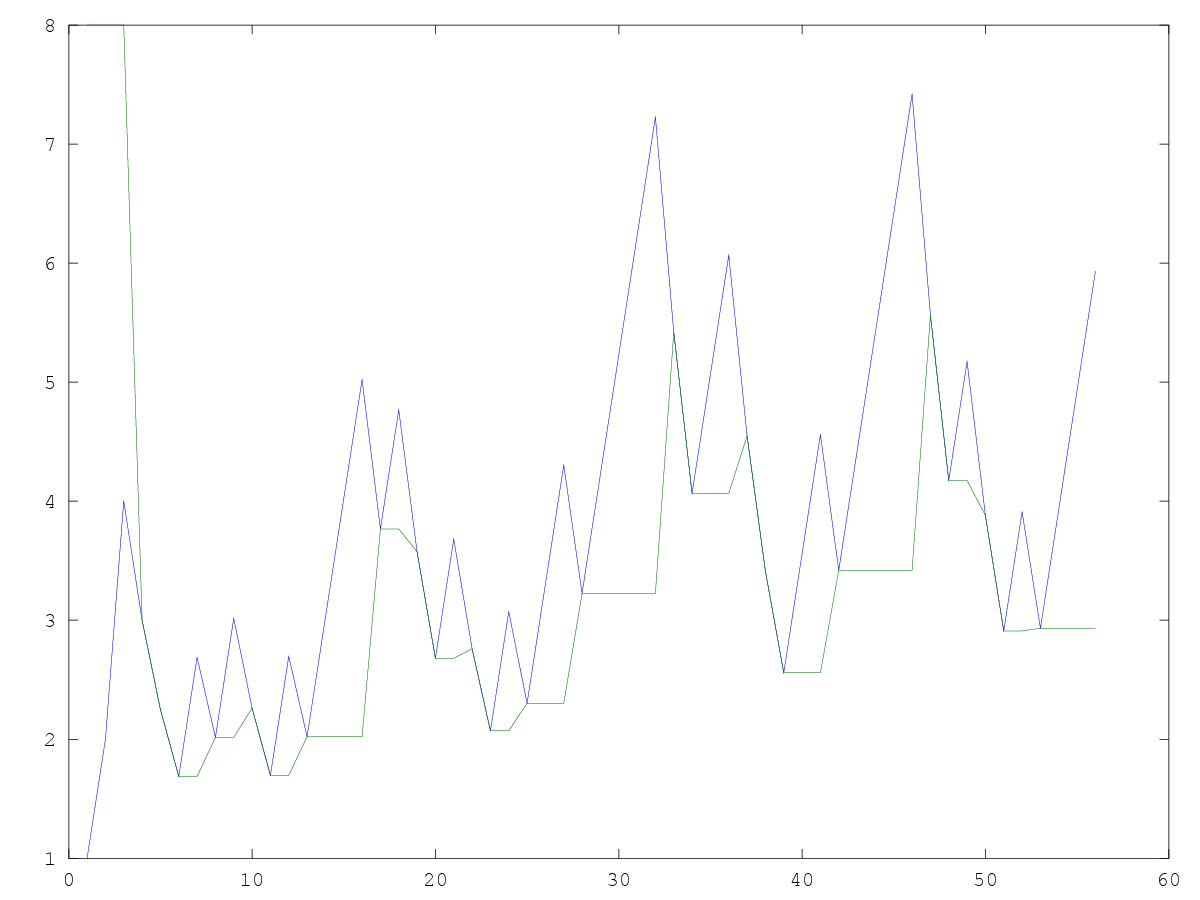
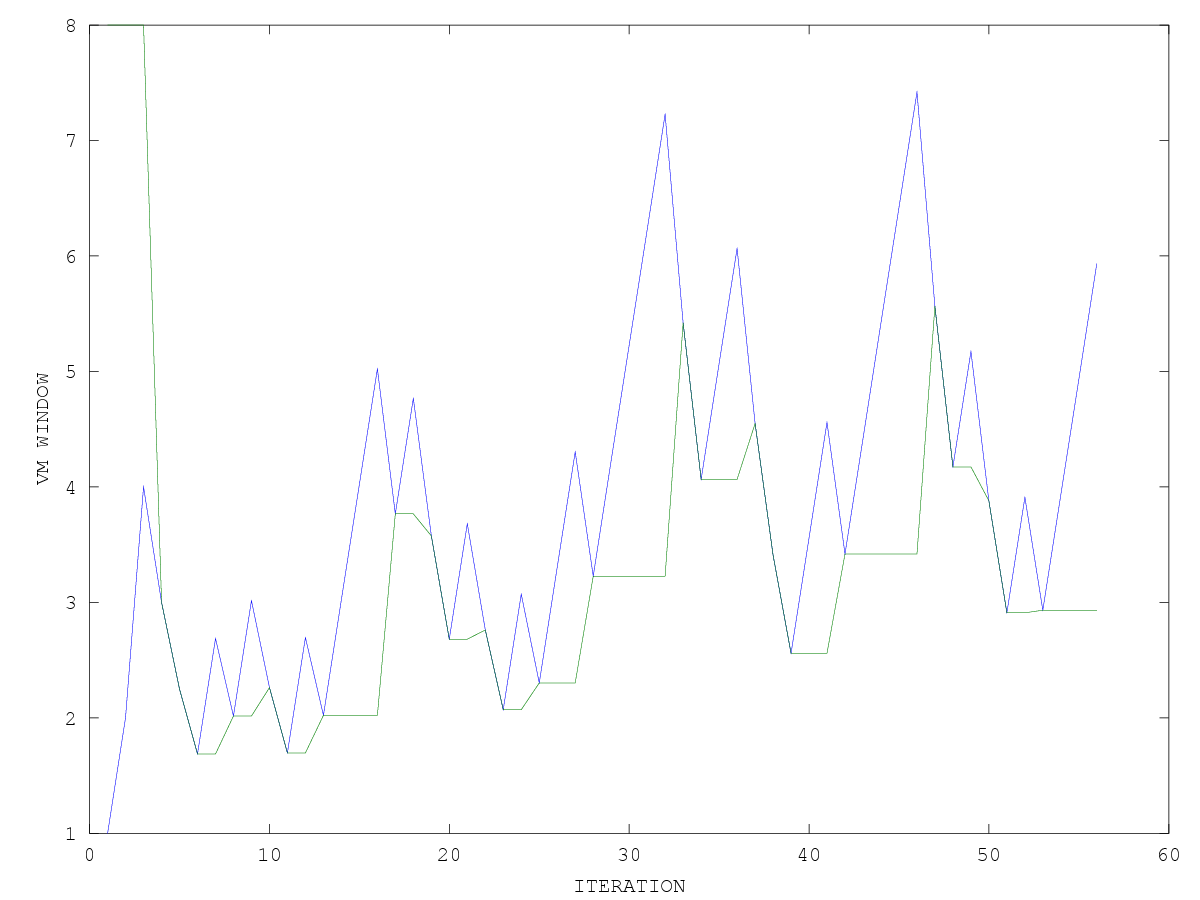
genplot

diff --git a/log/old/aggregate/20-80-180/genplot.m b/log/old/aggregate/20-80-180/genplot.m
@@ -20,8 +20,8 @@ x = -10:0.1:10;
 plot(A(:,[1, 5]))
 %plot(A(:,1:5))
 %plot(RTTs, Ns)
-%xlabel('time')
-%ylabel('N')
+xlabel('ITERATION')
+ylabel('VM WINDOW')
 
 %image = "lf-0-r1";
 %print -deps $image.eps
